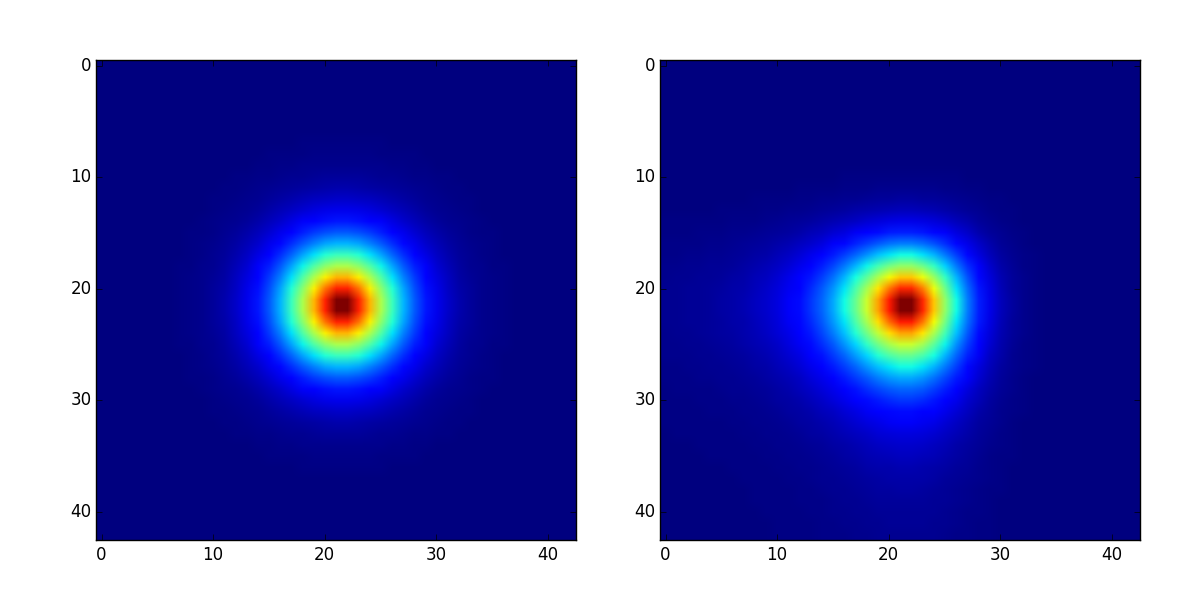
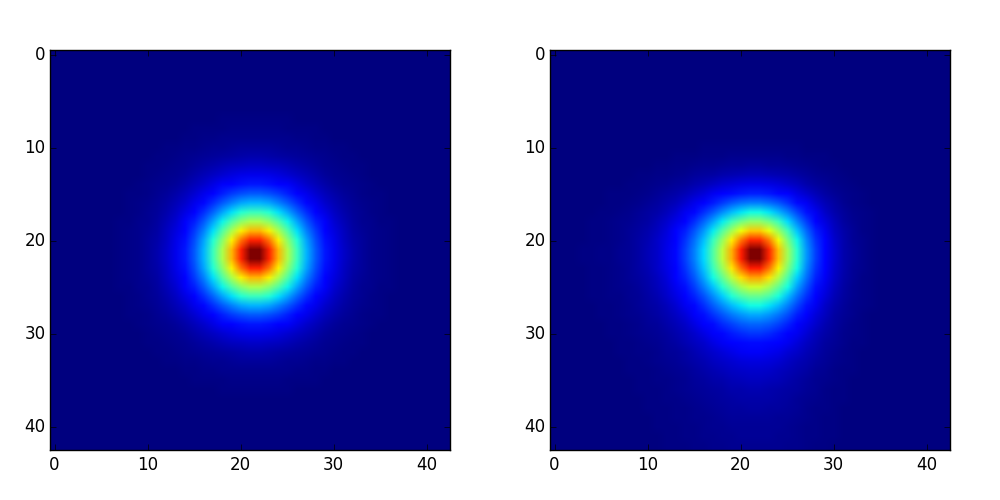
update readme and figures.

diff --git a/show_flexion.py b/show_flexion.py
@@ -7,7 +7,7 @@ from lens_image import *
 from half_light import *
 from weight_func import *
 
-@profile
+#@profile
 def main():
     fmax = 1.0
     eps = 0.0
@@ -38,10 +38,10 @@ def main():
     gamma2=0.0
     A1=np.array([[1.0-kappa-gamma1,-gamma2],[-gamma2,1-kappa+gamma1]])
 
-    g11= 0.001
-    g12= 0.002
-    g21= 0.003
-    g22= 0.004
+    g11= 0.02
+    g12= 0.01
+    g21= 0.00
+    g22=-0.00
 
     D1=np.zeros((2,2,2))
     D1[0,0,0]=-2.0*g11-g22
@@ -74,18 +74,17 @@ def main():
     print 'F2 = %f' %(fm[1])
     print 'G1 = %f' %(fm[2])
     print 'G2 = %f' %(fm[3])
+##--------------------------------------------------------------------
+    #levels = [0.0,0.15,0.30,0.45,0.60,0.75,0.90,1.05]
+    figure(num=None,figsize=(10,5),dpi=80, facecolor='w', edgecolor='k')
 
+    a = axes([0.05,0.1,0.4,0.8])
+    a.imshow(img_source)
+
+    b = axes([0.55,0.1,0.4,0.8])
+    b.imshow(zz)
+    show()
     return 0
 
-##--------------------------------------------------------------------
-#levels = [0.0,0.15,0.30,0.45,0.60,0.75,0.90,1.05]
-#figure(num=None,figsize=(10,5),dpi=80, facecolor='w', edgecolor='k')
-#
-#a = axes([0.05,0.1,0.4,0.8])
-#a.imshow(img_source)
-#
-#b = axes([0.55,0.1,0.4,0.8])
-#b.imshow(zz)
-#show()
 if __name__ == '__main__':
     main()

diff --git a/README.md b/README.md
@@ -8,5 +8,13 @@ Goldberg's flexion code in IDL. ( http://www.physics.drexel.edu/~goldberg/flexio
 ![Figure 1](./Figures/figure_1.png)
 Figure.1: It shows the input simulated lensed image with flexions. In left panel, it is the unlensed source, it is perfect circle Gaussian; In right panel, it is lensed images.
 
+	```bash
+	$ python2.7 wf_selection.py
+	```
+
 ![Figure 2](./Figures/C_W.pdf)
 Figure.2: Figure 2 and Figure 3 in [Goldberg et al 2007](http://arxiv.org/pdf/astro-ph/0607602v2.pdf) can be rebuild using this python code. 
+
+	```bash
+	$ python2.7 wf_selection.py
+	```
